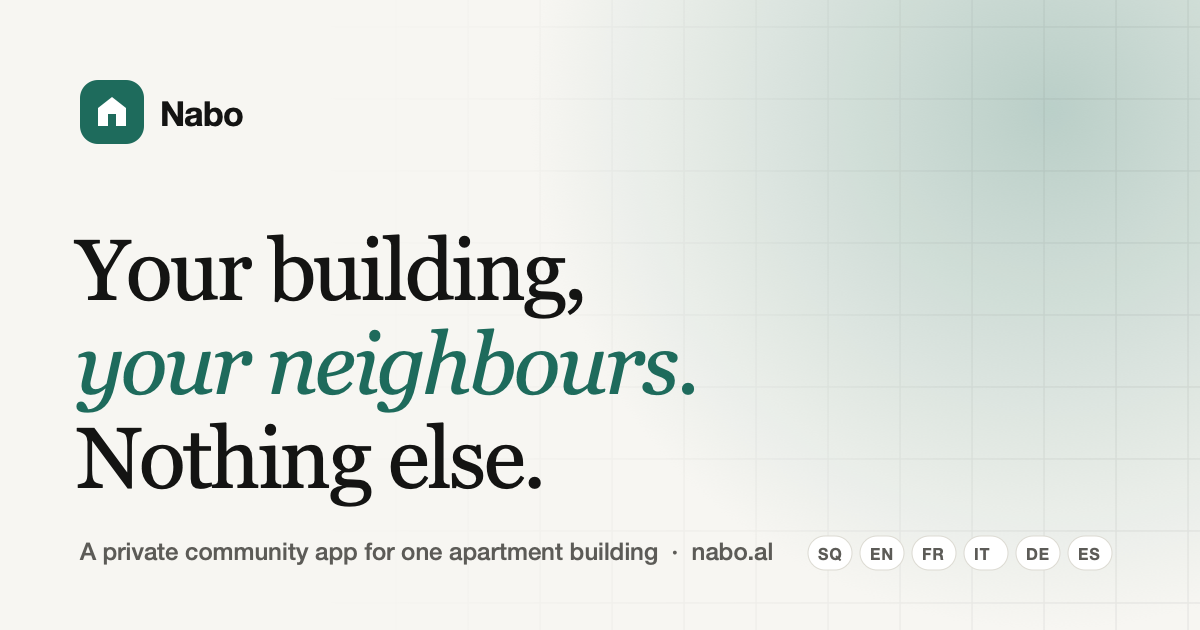
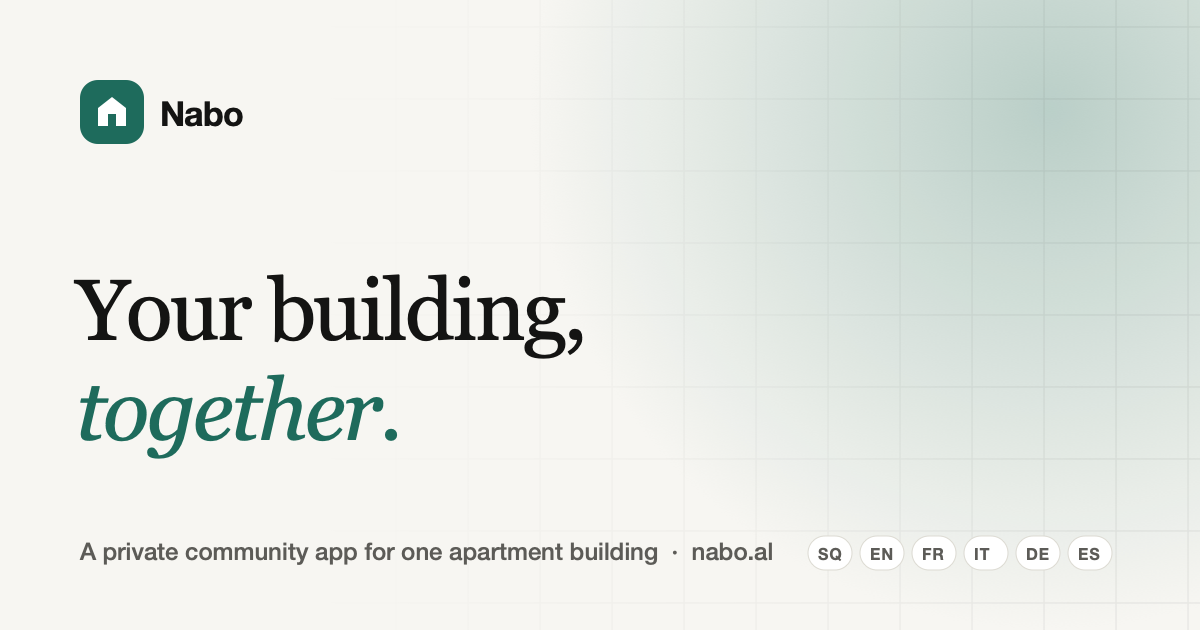
Use the app's tagline: Your building, together.
Headline, page title and social image in all six languages.

Changed region(s): [[0.0617, 0.3619, 0.5858, 0.8143]]

diff --git a/fr/index.html b/fr/index.html
@@ -3,7 +3,7 @@
 <head>
 <meta charset="utf-8">
 <meta name="viewport" content="width=device-width, initial-scale=1, viewport-fit=cover">
-<title>Nabo — Votre immeuble, vos voisins. Rien d'autre.</title>
+<title>Nabo — Votre immeuble, ensemble.</title>
 <meta name="description" content="Nabo est l'application communautaire privée d'un seul immeuble : informations du gestionnaire, fil de voisins vérifiés, événements, prêts entre voisins et messages directs. Six langues, gratuite pour les résidents.">
 <meta name="theme-color" content="#F7F6F2" media="(prefers-color-scheme: light)">
 <meta name="theme-color" content="#0F1A17" media="(prefers-color-scheme: dark)">
@@ -20,7 +20,7 @@
 <link rel="manifest" href="../site.webmanifest">
 <meta property="og:type" content="website">
 <meta property="og:site_name" content="Nabo">
-<meta property="og:title" content="Nabo — Votre immeuble, vos voisins. Rien d'autre.">
+<meta property="og:title" content="Nabo — Votre immeuble, ensemble.">
 <meta property="og:description" content="Nabo est l'application communautaire privée d'un seul immeuble : informations du gestionnaire, fil de voisins vérifiés, événements, prêts entre voisins et messages directs. Six langues, gratuite pour les résidents.">
 <meta property="og:url" content="https://nabo.al/fr/">
 <meta property="og:image" content="https://nabo.al/assets/og.png">
@@ -28,7 +28,7 @@
 <meta property="og:image:height" content="630">
 <meta property="og:locale" content="fr_FR">
 <meta name="twitter:card" content="summary_large_image">
-<meta name="twitter:title" content="Nabo — Votre immeuble, vos voisins. Rien d'autre.">
+<meta name="twitter:title" content="Nabo — Votre immeuble, ensemble.">
 <meta name="twitter:description" content="Nabo est l'application communautaire privée d'un seul immeuble : informations du gestionnaire, fil de voisins vérifiés, événements, prêts entre voisins et messages directs. Six langues, gratuite pour les résidents.">
 <meta name="twitter:image" content="https://nabo.al/assets/og.png">
 <link rel="preconnect" href="https://fonts.googleapis.com">
@@ -106,7 +106,7 @@
         <span class="dot"><svg viewBox="0 0 24 24" fill="none" stroke="currentColor" stroke-width="3" stroke-linecap="round" stroke-linejoin="round" aria-hidden="true"><path d="M5 12l5 5L20 7"/></svg></span>
         Bientôt sur l'App Store · Immeubles pilotes ouverts
       </span>
-      <h1 class="display reveal" style="--d:.05s">Votre immeuble, <em>vos voisins.</em> Rien d'autre.</h1>
+      <h1 class="display reveal" style="--d:.05s">Votre immeuble, <em>ensemble.</em></h1>
       <p class="lede reveal" style="--d:.1s">Nabo est un espace privé pour les personnes qui partagent votre porte d'entrée. Informations du gestionnaire, fil de voisins vérifiés, événements, prêts et messages directs — sans inconnus, sans numéros de téléphone exposés, sans discussions de groupe interminables.</p>
       <div class="hero-actions reveal" style="--d:.15s">
         <a class="btn btn-primary" href="#managers">Apporter Nabo à votre immeuble <svg class="arrow" viewBox="0 0 24 24" width="18" height="18" fill="none" stroke="currentColor" stroke-width="2.2" stroke-linecap="round" stroke-linejoin="round" aria-hidden="true"><path d="M5 12h14M13 6l6 6-6 6"/></svg></a>

diff --git a/sq/index.html b/sq/index.html
@@ -3,7 +3,7 @@
 <head>
 <meta charset="utf-8">
 <meta name="viewport" content="width=device-width, initial-scale=1, viewport-fit=cover">
-<title>Nabo — Pallati juaj, fqinjët tuaj. Asgjë tjetër.</title>
+<title>Nabo — Pallati juaj, së bashku.</title>
 <meta name="description" content="Nabo është një aplikacion privat komuniteti për një pallat: njoftime nga administratori, një fil me fqinjë të verifikuar, evente, huazim mes fqinjësh dhe mesazhe direkte. Gjashtë gjuhë, falas për banorët.">
 <meta name="theme-color" content="#F7F6F2" media="(prefers-color-scheme: light)">
 <meta name="theme-color" content="#0F1A17" media="(prefers-color-scheme: dark)">
@@ -20,7 +20,7 @@
 <link rel="manifest" href="../site.webmanifest">
 <meta property="og:type" content="website">
 <meta property="og:site_name" content="Nabo">
-<meta property="og:title" content="Nabo — Pallati juaj, fqinjët tuaj. Asgjë tjetër.">
+<meta property="og:title" content="Nabo — Pallati juaj, së bashku.">
 <meta property="og:description" content="Nabo është një aplikacion privat komuniteti për një pallat: njoftime nga administratori, një fil me fqinjë të verifikuar, evente, huazim mes fqinjësh dhe mesazhe direkte. Gjashtë gjuhë, falas për banorët.">
 <meta property="og:url" content="https://nabo.al/sq/">
 <meta property="og:image" content="https://nabo.al/assets/og.png">
@@ -28,7 +28,7 @@
 <meta property="og:image:height" content="630">
 <meta property="og:locale" content="sq_AL">
 <meta name="twitter:card" content="summary_large_image">
-<meta name="twitter:title" content="Nabo — Pallati juaj, fqinjët tuaj. Asgjë tjetër.">
+<meta name="twitter:title" content="Nabo — Pallati juaj, së bashku.">
 <meta name="twitter:description" content="Nabo është një aplikacion privat komuniteti për një pallat: njoftime nga administratori, një fil me fqinjë të verifikuar, evente, huazim mes fqinjësh dhe mesazhe direkte. Gjashtë gjuhë, falas për banorët.">
 <meta name="twitter:image" content="https://nabo.al/assets/og.png">
 <link rel="preconnect" href="https://fonts.googleapis.com">
@@ -106,7 +106,7 @@
         <span class="dot"><svg viewBox="0 0 24 24" fill="none" stroke="currentColor" stroke-width="3" stroke-linecap="round" stroke-linejoin="round" aria-hidden="true"><path d="M5 12l5 5L20 7"/></svg></span>
         Së shpejti në App Store · Pallate pilot të hapura
       </span>
-      <h1 class="display reveal" style="--d:.05s">Pallati juaj, <em>fqinjët tuaj.</em> Asgjë tjetër.</h1>
+      <h1 class="display reveal" style="--d:.05s">Pallati juaj, <em>së bashku.</em></h1>
       <p class="lede reveal" style="--d:.1s">Nabo është një hapësirë private për njerëzit që ndajnë të njëjtën hyrje me ju. Njoftime nga administratori, një fil me fqinjë të verifikuar, evente, huazim mes fqinjësh dhe mesazhe direkte — pa të panjohur, pa numra telefoni të ekspozuar, pa grupe të pafundme.</p>
       <div class="hero-actions reveal" style="--d:.15s">
         <a class="btn btn-primary" href="#managers">Sillni Nabo në pallatin tuaj <svg class="arrow" viewBox="0 0 24 24" width="18" height="18" fill="none" stroke="currentColor" stroke-width="2.2" stroke-linecap="round" stroke-linejoin="round" aria-hidden="true"><path d="M5 12h14M13 6l6 6-6 6"/></svg></a>

diff --git a/it/index.html b/it/index.html
@@ -3,7 +3,7 @@
 <head>
 <meta charset="utf-8">
 <meta name="viewport" content="width=device-width, initial-scale=1, viewport-fit=cover">
-<title>Nabo — Il tuo palazzo, i tuoi vicini. Nient'altro.</title>
+<title>Nabo — Il tuo condominio, insieme.</title>
 <meta name="description" content="Nabo è l'app privata per la comunità di un singolo condominio: comunicazioni dall'amministratore, una bacheca di vicini verificati, eventi, prestiti tra vicini e messaggi diretti. Sei lingue, gratuita per i residenti.">
 <meta name="theme-color" content="#F7F6F2" media="(prefers-color-scheme: light)">
 <meta name="theme-color" content="#0F1A17" media="(prefers-color-scheme: dark)">
@@ -20,7 +20,7 @@
 <link rel="manifest" href="../site.webmanifest">
 <meta property="og:type" content="website">
 <meta property="og:site_name" content="Nabo">
-<meta property="og:title" content="Nabo — Il tuo palazzo, i tuoi vicini. Nient'altro.">
+<meta property="og:title" content="Nabo — Il tuo condominio, insieme.">
 <meta property="og:description" content="Nabo è l'app privata per la comunità di un singolo condominio: comunicazioni dall'amministratore, una bacheca di vicini verificati, eventi, prestiti tra vicini e messaggi diretti. Sei lingue, gratuita per i residenti.">
 <meta property="og:url" content="https://nabo.al/it/">
 <meta property="og:image" content="https://nabo.al/assets/og.png">
@@ -28,7 +28,7 @@
 <meta property="og:image:height" content="630">
 <meta property="og:locale" content="it_IT">
 <meta name="twitter:card" content="summary_large_image">
-<meta name="twitter:title" content="Nabo — Il tuo palazzo, i tuoi vicini. Nient'altro.">
+<meta name="twitter:title" content="Nabo — Il tuo condominio, insieme.">
 <meta name="twitter:description" content="Nabo è l'app privata per la comunità di un singolo condominio: comunicazioni dall'amministratore, una bacheca di vicini verificati, eventi, prestiti tra vicini e messaggi diretti. Sei lingue, gratuita per i residenti.">
 <meta name="twitter:image" content="https://nabo.al/assets/og.png">
 <link rel="preconnect" href="https://fonts.googleapis.com">
@@ -106,7 +106,7 @@
         <span class="dot"><svg viewBox="0 0 24 24" fill="none" stroke="currentColor" stroke-width="3" stroke-linecap="round" stroke-linejoin="round" aria-hidden="true"><path d="M5 12l5 5L20 7"/></svg></span>
         In arrivo sull'App Store · Condomini pilota aperti
       </span>
-      <h1 class="display reveal" style="--d:.05s">Il tuo palazzo, <em>i tuoi vicini.</em> Nient'altro.</h1>
+      <h1 class="display reveal" style="--d:.05s">Il tuo condominio, <em>insieme.</em></h1>
       <p class="lede reveal" style="--d:.1s">Nabo è uno spazio privato per le persone con cui condividi il portone. Comunicazioni dall'amministratore, una bacheca di vicini verificati, eventi, prestiti e messaggi diretti — senza sconosciuti, numeri di telefono esposti o chat di gruppo infinite.</p>
       <div class="hero-actions reveal" style="--d:.15s">
         <a class="btn btn-primary" href="#managers">Porta Nabo nel tuo condominio <svg class="arrow" viewBox="0 0 24 24" width="18" height="18" fill="none" stroke="currentColor" stroke-width="2.2" stroke-linecap="round" stroke-linejoin="round" aria-hidden="true"><path d="M5 12h14M13 6l6 6-6 6"/></svg></a>

diff --git a/de/index.html b/de/index.html
@@ -3,7 +3,7 @@
 <head>
 <meta charset="utf-8">
 <meta name="viewport" content="width=device-width, initial-scale=1, viewport-fit=cover">
-<title>Nabo — Ihr Haus, Ihre Nachbarn. Sonst nichts.</title>
+<title>Nabo — Ihr Haus, gemeinsam.</title>
 <meta name="description" content="Nabo ist die private Community-App für ein einzelnes Wohnhaus: Mitteilungen der Hausverwaltung, ein Feed verifizierter Nachbarn, Termine, Leihen und Verleihen und Direktnachrichten. Sechs Sprachen, kostenlos für Bewohner.">
 <meta name="theme-color" content="#F7F6F2" media="(prefers-color-scheme: light)">
 <meta name="theme-color" content="#0F1A17" media="(prefers-color-scheme: dark)">
@@ -20,7 +20,7 @@
 <link rel="manifest" href="../site.webmanifest">
 <meta property="og:type" content="website">
 <meta property="og:site_name" content="Nabo">
-<meta property="og:title" content="Nabo — Ihr Haus, Ihre Nachbarn. Sonst nichts.">
+<meta property="og:title" content="Nabo — Ihr Haus, gemeinsam.">
 <meta property="og:description" content="Nabo ist die private Community-App für ein einzelnes Wohnhaus: Mitteilungen der Hausverwaltung, ein Feed verifizierter Nachbarn, Termine, Leihen und Verleihen und Direktnachrichten. Sechs Sprachen, kostenlos für Bewohner.">
 <meta property="og:url" content="https://nabo.al/de/">
 <meta property="og:image" content="https://nabo.al/assets/og.png">
@@ -28,7 +28,7 @@
 <meta property="og:image:height" content="630">
 <meta property="og:locale" content="de_DE">
 <meta name="twitter:card" content="summary_large_image">
-<meta name="twitter:title" content="Nabo — Ihr Haus, Ihre Nachbarn. Sonst nichts.">
+<meta name="twitter:title" content="Nabo — Ihr Haus, gemeinsam.">
 <meta name="twitter:description" content="Nabo ist die private Community-App für ein einzelnes Wohnhaus: Mitteilungen der Hausverwaltung, ein Feed verifizierter Nachbarn, Termine, Leihen und Verleihen und Direktnachrichten. Sechs Sprachen, kostenlos für Bewohner.">
 <meta name="twitter:image" content="https://nabo.al/assets/og.png">
 <link rel="preconnect" href="https://fonts.googleapis.com">
@@ -106,7 +106,7 @@
         <span class="dot"><svg viewBox="0 0 24 24" fill="none" stroke="currentColor" stroke-width="3" stroke-linecap="round" stroke-linejoin="round" aria-hidden="true"><path d="M5 12l5 5L20 7"/></svg></span>
         Bald im App Store · Pilotgebäude offen
       </span>
-      <h1 class="display reveal" style="--d:.05s">Ihr Haus, <em>Ihre Nachbarn.</em> Sonst nichts.</h1>
+      <h1 class="display reveal" style="--d:.05s">Ihr Haus, <em>gemeinsam.</em></h1>
       <p class="lede reveal" style="--d:.1s">Nabo ist ein privater Raum für die Menschen, mit denen Sie sich die Haustür teilen. Mitteilungen der Verwaltung, ein Feed verifizierter Nachbarn, Termine, Leihen und Verleihen und Direktnachrichten — ohne Fremde, ohne offengelegte Telefonnummern, ohne endlose Gruppenchats.</p>
       <div class="hero-actions reveal" style="--d:.15s">
         <a class="btn btn-primary" href="#managers">Nabo in Ihr Haus holen <svg class="arrow" viewBox="0 0 24 24" width="18" height="18" fill="none" stroke="currentColor" stroke-width="2.2" stroke-linecap="round" stroke-linejoin="round" aria-hidden="true"><path d="M5 12h14M13 6l6 6-6 6"/></svg></a>

diff --git a/es/index.html b/es/index.html
@@ -3,7 +3,7 @@
 <head>
 <meta charset="utf-8">
 <meta name="viewport" content="width=device-width, initial-scale=1, viewport-fit=cover">
-<title>Nabo — Tu edificio, tus vecinos. Nada más.</title>
+<title>Nabo — Tu edificio, en comunidad.</title>
 <meta name="description" content="Nabo es la app comunitaria privada de un solo edificio: avisos del administrador, un muro de vecinos verificados, eventos, préstamos entre vecinos y mensajes directos. Seis idiomas, gratis para los residentes.">
 <meta name="theme-color" content="#F7F6F2" media="(prefers-color-scheme: light)">
 <meta name="theme-color" content="#0F1A17" media="(prefers-color-scheme: dark)">
@@ -20,7 +20,7 @@
 <link rel="manifest" href="../site.webmanifest">
 <meta property="og:type" content="website">
 <meta property="og:site_name" content="Nabo">
-<meta property="og:title" content="Nabo — Tu edificio, tus vecinos. Nada más.">
+<meta property="og:title" content="Nabo — Tu edificio, en comunidad.">
 <meta property="og:description" content="Nabo es la app comunitaria privada de un solo edificio: avisos del administrador, un muro de vecinos verificados, eventos, préstamos entre vecinos y mensajes directos. Seis idiomas, gratis para los residentes.">
 <meta property="og:url" content="https://nabo.al/es/">
 <meta property="og:image" content="https://nabo.al/assets/og.png">
@@ -28,7 +28,7 @@
 <meta property="og:image:height" content="630">
 <meta property="og:locale" content="es_ES">
 <meta name="twitter:card" content="summary_large_image">
-<meta name="twitter:title" content="Nabo — Tu edificio, tus vecinos. Nada más.">
+<meta name="twitter:title" content="Nabo — Tu edificio, en comunidad.">
 <meta name="twitter:description" content="Nabo es la app comunitaria privada de un solo edificio: avisos del administrador, un muro de vecinos verificados, eventos, préstamos entre vecinos y mensajes directos. Seis idiomas, gratis para los residentes.">
 <meta name="twitter:image" content="https://nabo.al/assets/og.png">
 <link rel="preconnect" href="https://fonts.googleapis.com">
@@ -106,7 +106,7 @@
         <span class="dot"><svg viewBox="0 0 24 24" fill="none" stroke="currentColor" stroke-width="3" stroke-linecap="round" stroke-linejoin="round" aria-hidden="true"><path d="M5 12l5 5L20 7"/></svg></span>
         Próximamente en el App Store · Edificios piloto abiertos
       </span>
-      <h1 class="display reveal" style="--d:.05s">Tu edificio, <em>tus vecinos.</em> Nada más.</h1>
+      <h1 class="display reveal" style="--d:.05s">Tu edificio, <em>en comunidad.</em></h1>
       <p class="lede reveal" style="--d:.1s">Nabo es un espacio privado para las personas con las que compartes portal. Avisos del administrador, un muro de vecinos verificados, eventos, préstamos y mensajes directos — sin desconocidos, sin números de teléfono expuestos, sin chats de grupo interminables.</p>
       <div class="hero-actions reveal" style="--d:.15s">
         <a class="btn btn-primary" href="#managers">Lleva Nabo a tu edificio <svg class="arrow" viewBox="0 0 24 24" width="18" height="18" fill="none" stroke="currentColor" stroke-width="2.2" stroke-linecap="round" stroke-linejoin="round" aria-hidden="true"><path d="M5 12h14M13 6l6 6-6 6"/></svg></a>

diff --git a/index.html b/index.html
@@ -3,7 +3,7 @@
 <head>
 <meta charset="utf-8">
 <meta name="viewport" content="width=device-width, initial-scale=1, viewport-fit=cover">
-<title>Nabo — Your building, your neighbours. Nothing else.</title>
+<title>Nabo — Your building, together.</title>
 <meta name="description" content="Nabo is a private community app for one apartment building: news from your manager, a feed of verified neighbours, events, lending and borrowing, and direct messages. Six languages, free for residents.">
 <meta name="theme-color" content="#F7F6F2" media="(prefers-color-scheme: light)">
 <meta name="theme-color" content="#0F1A17" media="(prefers-color-scheme: dark)">
@@ -20,7 +20,7 @@
 <link rel="manifest" href="site.webmanifest">
 <meta property="og:type" content="website">
 <meta property="og:site_name" content="Nabo">
-<meta property="og:title" content="Nabo — Your building, your neighbours. Nothing else.">
+<meta property="og:title" content="Nabo — Your building, together.">
 <meta property="og:description" content="Nabo is a private community app for one apartment building: news from your manager, a feed of verified neighbours, events, lending and borrowing, and direct messages. Six languages, free for residents.">
 <meta property="og:url" content="https://nabo.al/">
 <meta property="og:image" content="https://nabo.al/assets/og.png">
@@ -28,7 +28,7 @@
 <meta property="og:image:height" content="630">
 <meta property="og:locale" content="en_GB">
 <meta name="twitter:card" content="summary_large_image">
-<meta name="twitter:title" content="Nabo — Your building, your neighbours. Nothing else.">
+<meta name="twitter:title" content="Nabo — Your building, together.">
 <meta name="twitter:description" content="Nabo is a private community app for one apartment building: news from your manager, a feed of verified neighbours, events, lending and borrowing, and direct messages. Six languages, free for residents.">
 <meta name="twitter:image" content="https://nabo.al/assets/og.png">
 <link rel="preconnect" href="https://fonts.googleapis.com">
@@ -106,7 +106,7 @@
         <span class="dot"><svg viewBox="0 0 24 24" fill="none" stroke="currentColor" stroke-width="3" stroke-linecap="round" stroke-linejoin="round" aria-hidden="true"><path d="M5 12l5 5L20 7"/></svg></span>
         Coming to the App Store · Pilot buildings open
       </span>
-      <h1 class="display reveal" style="--d:.05s">Your building, <em>your neighbours.</em> Nothing else.</h1>
+      <h1 class="display reveal" style="--d:.05s">Your building, <em>together.</em></h1>
       <p class="lede reveal" style="--d:.1s">Nabo is a private space for the people who share your front door. News from your manager, a feed of verified neighbours, events, lending and borrowing, and direct messages — without strangers, shared phone numbers or endless group chats.</p>
       <div class="hero-actions reveal" style="--d:.15s">
         <a class="btn btn-primary" href="#managers">Bring Nabo to your building <svg class="arrow" viewBox="0 0 24 24" width="18" height="18" fill="none" stroke="currentColor" stroke-width="2.2" stroke-linecap="round" stroke-linejoin="round" aria-hidden="true"><path d="M5 12h14M13 6l6 6-6 6"/></svg></a>

diff --git a/src/render_og.swift b/src/render_og.swift
@@ -77,12 +77,11 @@ func draw(_ text: String, font: CTFont, color: CGColor, at origin: CGPoint, trac
 let inter = CTFontCreateWithName("HelveticaNeue-Bold" as CFString, 34, nil)
 draw("Nabo", font: inter, color: rgb(0x141413), at: CGPoint(x: 160, y: CGFloat(H) - 80 - 46), tracking: -0.5)
 
-// Headline in a serif, three lines; the middle line italic green
+// Headline in a serif, two lines; the second italic green
 let serif = CTFontCreateWithName("Georgia" as CFString, 86, nil)
 let serifItalic = CTFontCreateWithName("Georgia-Italic" as CFString, 86, nil)
-draw("Your building,", font: serif, color: rgb(0x141413), at: CGPoint(x: 76, y: 330), tracking: -2.5)
-draw("your neighbours.", font: serifItalic, color: rgb(0x1E6B5C), at: CGPoint(x: 76, y: 236), tracking: -2.5)
-draw("Nothing else.", font: serif, color: rgb(0x141413), at: CGPoint(x: 76, y: 142), tracking: -2.5)
+draw("Your building,", font: serif, color: rgb(0x141413), at: CGPoint(x: 76, y: 290), tracking: -2.5)
+draw("together.", font: serifItalic, color: rgb(0x1E6B5C), at: CGPoint(x: 76, y: 190), tracking: -2.5)
 
 // Footer line
 let small = CTFontCreateWithName("HelveticaNeue-Medium" as CFString, 24, nil)
